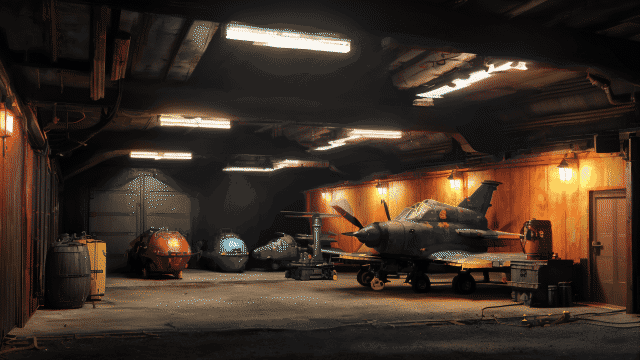
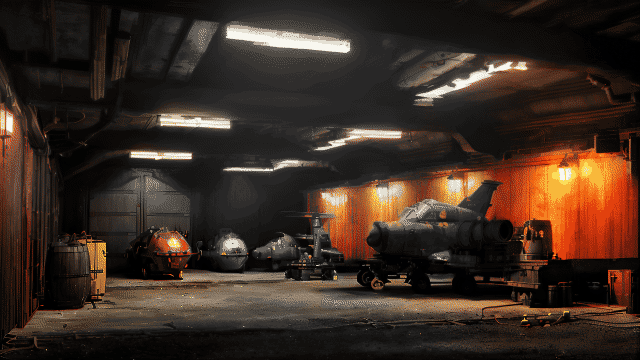
fix: 格納庫の背景を修正(ドアの寸法・プロペラ・推進系・機体の色)
指摘された4点を直した。生成し直しは一度試して失敗している
(「地下・灰色」を強調しすぎて宇宙船が消え、地下駐車場になった)ので、
元絵の構図と光を残したまま外科的に直す方針に切り替えた。

1. ドアの寸法
   実測で高さ118px、人物46pxに対して2.57倍あった。ドアノブも床から55px。
   実際の扉は身長の約1.2倍なので58pxへ縮め、ノブも比例して下がった。
   ここは生成ではなく計算でやった ― 寸法は測れるので当て推量にしない。
   空いた壁は隣のきれいな壁を左右反転して貼り、明るさを合わせて羽根ぼかし。
   それでも残った矩形の縁は修復(inpaint)で溶かした。

2. 機首のプロペラ … 羽根4枚だけをマスクして消した。円錐の機首は残してある
                    (ジェットのレドームとして読めるため)
3. 後部の推進系 … 噴射口を修復で足した。宇宙船に見えなかった一番の原因
4. 機体の色     … くすんだ灰色へ。橙の壁と色味で分離してから彩度を落とした

作業は 1280x720 の元絵(raw/hangar_master_src.png)で行い、
48色の原器を作り直してから誤差拡散で 640x360 へ落とした。

  隣接相違 47.3% / 連続長の中央値 1px(既存は 52.8% / 1px)
  48/48色 原器内 100%  ・ kobo verify 規約違反 0件

あわせて3Dの自機も、旧式艇のときだけ褪せた鼠色にした(ships.js)。
材質の色だけ差し替える方式にしてある ― 部品を作り直すと当たり判定も作り直しになる。

diff --git a/src/scene.js b/src/scene.js
@@ -2017,6 +2017,26 @@ function createDustField() {
 //  ・flatShading: true … 面を1色で塗る(丸く滑らかに見せない)= ローポリらしさの正体
 //  ・EdgesGeometry  … 面と面の境目だけを線として抜き出す = 輪郭線
 // ===================================================================
+// 機体の色を塗り替える(ships.js が色を持っているときだけ)。
+// 部品は作り直さない ― 材質の色だけ差し替える。作り直すと当たり判定も作り直しになる。
+function applyShipColors() {
+  if (!playerShip || typeof ship !== 'function') return;
+  const spec = ship();
+  const body = (spec.bodyColor === null || spec.bodyColor === undefined)
+    ? PLAYER.BODY_COLOR : spec.bodyColor;
+  const wing = (spec.wingColor === null || spec.wingColor === undefined)
+    ? PLAYER.WING_COLOR : spec.wingColor;
+
+  playerShip.traverse(function (o) {
+    if (!o.isMesh || !o.material || !o.material.color) return;
+    // 元の色を1回だけ覚えておく。覚えないと、塗り替えるたびに基準を失う
+    if (o.userData.baseColor === undefined) o.userData.baseColor = o.material.color.getHex();
+    const base = o.userData.baseColor;
+    if (base === PLAYER.BODY_COLOR) o.material.color.setHex(body);
+    else if (base === PLAYER.WING_COLOR) o.material.color.setHex(wing);
+  });
+}
+
 function createFlatPart(geometry, color, edgeColor) {
   // MeshLambertMaterial = 光の当たり方で明るさが変わる、いちばん素朴な材質
   const material = new THREE.MeshLambertMaterial({ color: color, flatShading: true });

diff --git a/src/ships.js b/src/ships.js
@@ -30,6 +30,9 @@ const SHIPS = {
     bombs:   null,          // null = BOMBS を全部使える
     weaponOverride: {},     // 兵装の性能を書き換えない
 
+    bodyColor: null,        // null = 既定の色(青灰色)のまま
+    wingColor: null,
+
     yawRightScale:  1.0,    // 右へ向く効き(1.0 = 素の性能)
     yawRightSmooth: 1.0,    // 右へ向くときの反応の鈍さ(大きいほど鈍い)
     rollRightScale: 1.0,    // 右へロールする速さ
@@ -59,6 +62,11 @@ const SHIPS = {
         interval: 0.85,   // 0.45秒 → 0.85秒
       },
     },
+
+    // ★ 塗り直されないまま二十年。制式機の青灰色ではなく、褪せた鼠色。
+    //   背景(格納庫に置かれた四番機)と同じ色味に揃えてある。
+    bodyColor: 0x6b6f70,
+    wingColor: 0x44484a,
 
     // ★「右の推力偏向が渋い」
     //   弱いだけでなく、遅れて効く。だから左へ回るほうが速い、という癖が出る。

diff --git a/src/screens.js b/src/screens.js
@@ -237,6 +237,7 @@ function launchSortie(shipKey, bgm) {
   applyViewMode(OPTIONS.startView === 'cockpit');   // 好みの視点で出撃する
   screenState = 'mission';
   setShip(shipKey);          // ★ restartMission より前(理由は上)
+  applyShipColors();         // 機体の塗色を反映する(scene.js)
   restartMission();          // 7パラメーター・弾数・戦果をすべて初期化して開始
   if (bgm) playBgm(bgm);     // 読み込みは非同期なので待たない
 }

diff --git a/docs/adv_ch1_s4_script.md b/docs/adv_ch1_s4_script.md
@@ -1,0 +1,158 @@
+# シーン4「発艦」台本(草案)
+
+**第一部 一章 ― 発艦。** シーン3「旧式艇四機」の直後。ここでADVパートが終わり、3D戦闘へ渡る。
+
+まだ実装していない。文面を決めてから組む。
+
+---
+
+## この場面が背負っているもの
+
+| | |
+|---|---|
+| 物語 | 村が接収される。四機で出る。**小説では「防衛隊の四機は一時間もたなかった」** |
+| 構成 | シーン3には人がいた。**シーン4には誰もいない。**先に上がったか、まだ乗っていないか |
+| 遊び | 出撃すると3D戦闘が始まる。**ADV→戦闘の初めての継ぎ目** |
+| 説明 | 旧式艇の制限(実弾なし・右の推力偏向が渋い)を、**台詞で先に渡しておく** |
+
+最後の一点が実務上いちばん重要。プレイヤーが「弾が出ない」と気付くのが戦闘中だと、
+それは仕様ではなく不具合に見える。**乗る前に知らせる。**
+
+## 舞台
+
+旧ドックの発艦筒。非常灯。シーン3と同じ格納庫の奥。足音は鉄板(`surface: 'metal'`)。
+背景は新規に起こす(未着手)。
+
+人物は画面に出ない。声だけが無線から来る。
+
+---
+
+## 台本
+
+### 導入(場面に入った直後・自動)
+
+> 与圧服の襟が首に当たる。訓練で年に二回、着るだけのものだ。
+>
+> 今年はもう二回、着た。
+
+> 発艦筒の非常灯は赤い。整備の色ではない。
+
+---
+
+### 調べる:与圧服の掛け
+
+**カイト**「ベンのが無い」
+
+> 三番目の掛けが空だった。四つ並んだうちの、三つ目。
+
+**カイト**「……先に上がってる、って言ってたな」
+
+---
+
+### 調べる:一番機
+
+> ハッチが開いたままだった。中は空。
+
+> 誰が乗っていったのかは、当番表を見なくても分かる。この村は狭い。
+
+---
+
+### 調べる:二番機
+
+**リスベス**(無線)『カイト? 声、聞こえてる?』
+
+**カイト**「聞こえてる」
+
+**リスベス**(無線)『提灯、全部消しちゃった。風で落ちるといけないから』
+
+**カイト**「……そうか」
+
+**リスベス**(無線)『来年また吊るすからね。軸の端からでも見えるくらい』
+
+> 返事をしそこねた。
+
+*※ シーン2でリスベスは「来年はもっと増やす。軸の端からでも見えるくらい」と言っている。同じ台詞を返している。*
+
+---
+
+### 調べる:点検表
+
+> 今朝の自分の字で「異常なし」と書いてある。
+
+**カイト**「……今日いちばん役に立たない書類だ」
+
+> 弾薬の欄は、二十年ぶん全部が空欄だった。書く機会が一度も無かったからだ。
+
+**カイト**「実弾は、積んだことがない」
+
+**カイト**「ビームだけだ。あれは弾じゃない。炉から直接出る」
+
+*※ ここで武装制限をプレイヤーに渡す。台詞に根拠のある形で。*
+
+---
+
+### 調べる:祠の方角(奥の暗がり)
+
+> 隔壁は閉じていた。さっきは開いていた。
+
+**カイト**「……じいちゃん」
+
+> 鍵はひとつきりで、それは祖父の首から下がっている。
+
+*※ 小説「祠の隔壁が開き、閉じ、そして砲火が桟橋ごと呑んだ」の前半。ここで閉じておく。*
+
+---
+
+### 四番機のタラップに触れる(出撃の直前)
+
+**ベン**(無線)『カイト。乗ったか』
+
+**カイト**「今から」
+
+**ベン**(無線)『右の推力偏向。渋いからな』
+
+**カイト**「三回目だぞ、それ」
+
+**ベン**(無線)『四回言う。覚えてないと死ぬやつだからだ』
+
+*※ 操縦の制限をここで渡す。ベンが数えているのは伏線の回収でもある。*
+
+---
+
+### 発艦(出口・戻れない)
+
+> 座席は冷えていた。掌の下でスイッチの位置を数える。目をつぶっても分かる。
+
+> ――当番表に書かれた、彼の持ち場。
+
+**祖父**(無線)『カイト』
+
+**カイト**「じいちゃん、どこに」
+
+**祖父**(無線)『上がれ。下は見るな』
+
+> 無線が切れた。
+
+> 発艦筒の灯が、赤から青へ変わった。
+
+**≪ 発艦 ≫** → 3D戦闘へ
+
+---
+
+## 実装のときに決めること
+
+| 論点 | 案 |
+|---|---|
+| リスベスを二番機の操縦士にするか | **する。** 村の防衛隊は村人でできている。四機が落ちるとき、名前のある誰かが乗っているほうが重い |
+| 祖父の最後の台詞 | 「上がれ。下は見るな」。小説では祖父は旧ドックへ走り、祠を開けて閉める。**「殻を、持っていけ」は瓦礫の中の台詞なので、ここではまだ言わない** |
+| 3D戦闘への渡し方 | 出口で `launchStorySortie()` を呼ぶ。機体は旧式艇四番機(`ships.js`) |
+| 戻れるか | **戻れない。** ここまでのシーンと違い、出口は一方通行にする |
+| BGM | 未定。発艦筒は無音のまま、戦闘で初めて鳴らすほうが強いかもしれない |
+
+## 書くときに守ったこと
+
+- **短い文。説明しない。** 既存シーンの声に合わせた
+- **感情を言わない。** 「怖い」「悲しい」は一度も書いていない。掛けが一つ空いている、返事をしそこねた、で足りる
+- **同じ台詞を二度使う。** リスベスの提灯、ベンの推力偏向、点検表の「異常なし」。
+  シーン2・3で聞いた台詞が、ここで意味を変える
+- **制限は台詞で渡す。** 実弾なしも推力偏向も、システムメッセージではなく人が言う
